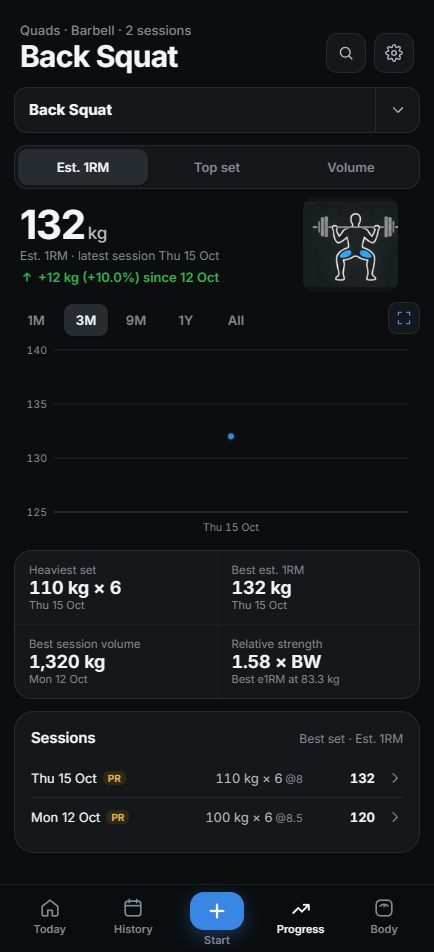
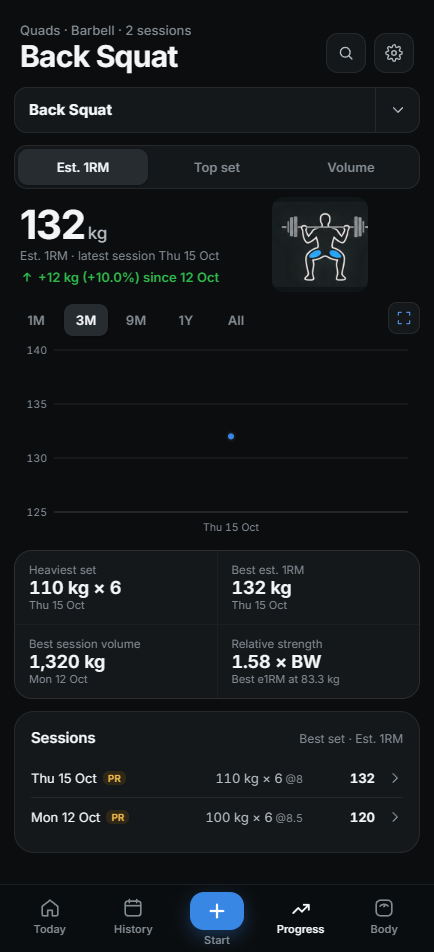
Centre the exercise illustration between the graph controls

Changed region(s): [[0.659, 0.2132, 0.9286, 0.3046]]

diff --git a/frontend/src/pulse.css b/frontend/src/pulse.css
@@ -1670,9 +1670,11 @@ button.pulse-card:hover {
 }
 
 .progress-hero > .exercise-icon {
-  width: clamp(4.5rem, 22vw, 6rem);
+  --progress-icon-size: clamp(4.5rem, 22vw, 6rem);
+  width: var(--progress-icon-size);
   height: auto;
-  margin-right: 1rem;
+  /* Centre between All (13.875rem from the left) and fullscreen (1rem from the right). */
+  margin-right: max(0px, calc(50% - 6.4375rem - var(--progress-icon-size) / 2));
   aspect-ratio: 1;
   border: 0;
   border-radius: 0.75rem;
